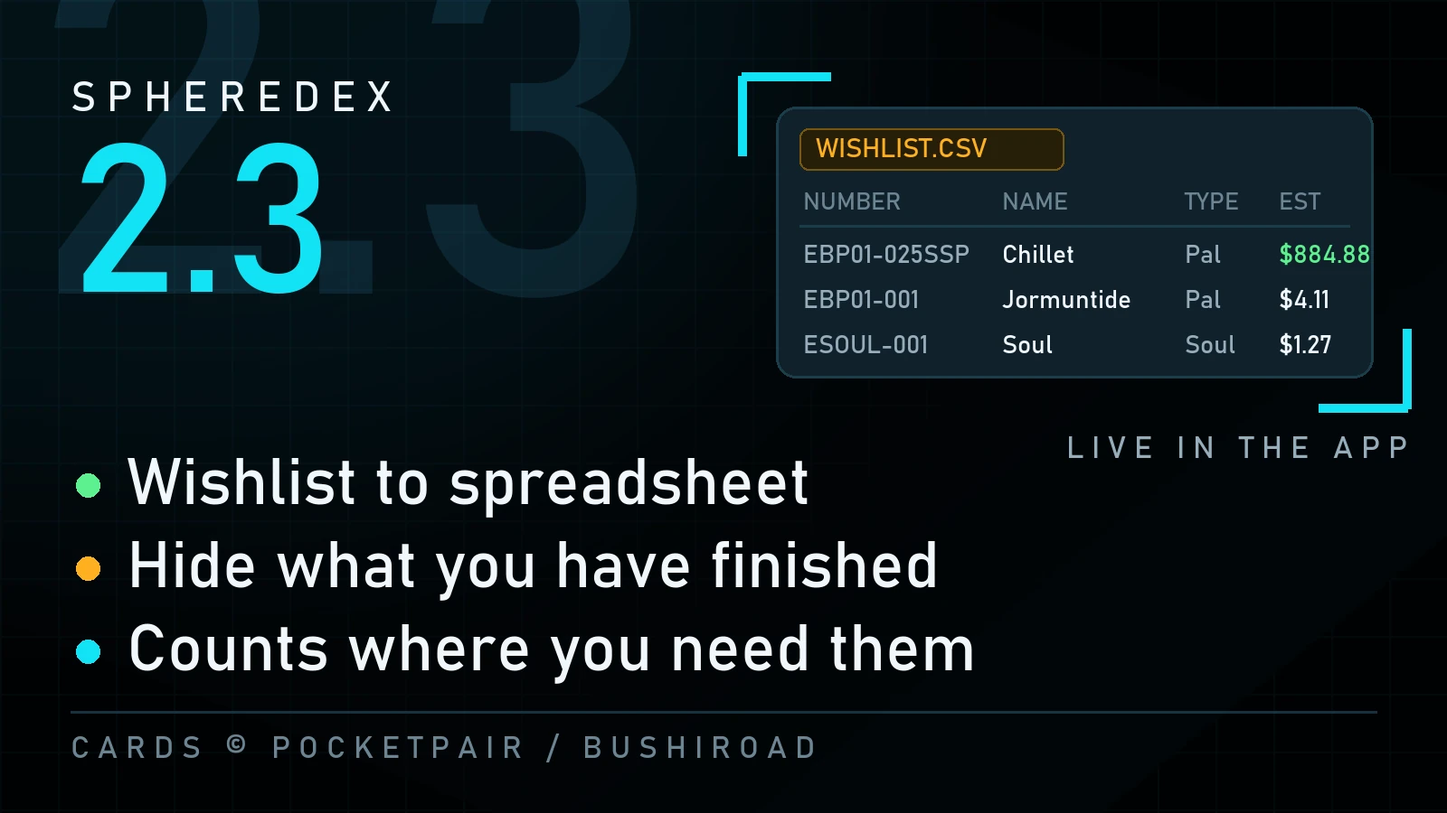
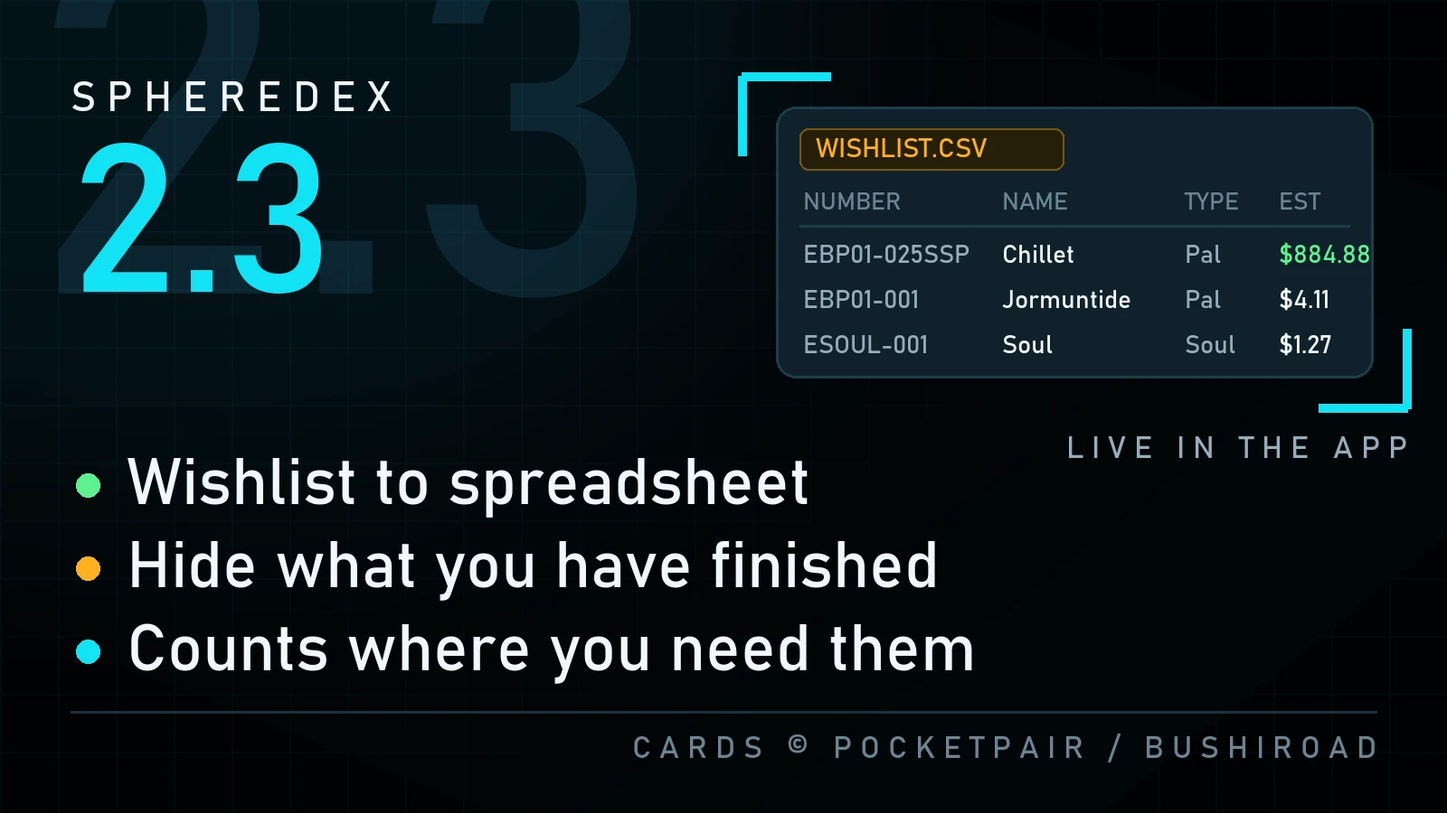
The update slide is the same size as every other carousel slide
Craig spotted the real problem: the carousel grew when you swiped onto the
update slide and shrank again when you swiped off it, because banneropen put
the whole carousel into height auto for that one slide. It was that tall
because it stacked the banner ABOVE a copy block repeating the same three
lines already drawn into the banner art.

The banner now simply fills the slide, like the artwork on every other slide,
inside the carousel's own height. Measured on a phone: all six slides report a
200px carousel, where the update one used to be far taller. Nothing is cropped,
contain not cover, because the art carries its labels at the edges.

The repeated copy block is not rendered at all now rather than hidden, so the
three lines are read once. The words that live only in the picture are given to
a screen reader through the banner's alt text instead.

The 2.3 art moves its Pocketpair and Bushiroad credit to the right, because the
carousel paints its dots over the bottom left of the frame.

Changed region(s): [[0.0312, 0.9022, 0.75, 0.9333], [0.7812, 0.9022, 0.9688, 0.9333]]

diff --git a/app/src/main/assets/spheredex.html b/app/src/main/assets/spheredex.html
@@ -917,42 +917,16 @@
     .featart { top:16px; bottom:16px; right:16px; max-width:340px; } .featslide.pair .featart { max-width:320px; }
     .featbody, .featslide.pair .featbody { right:372px; } .feattitle { font-size:1.2rem; } .featpoints span { white-space:normal; } }
   @media (prefers-reduced-motion:reduce) { .feattrack { transition:none; } .featslide.on .featart-img.zoom { animation:none; } }
-  /* Version banners are 16:9 collages carrying their own title and labels. ONE rendered size everywhere,
-     so the lettering drawn into the art is the same physical size on a phone and on a laptop. Only a phone
-     too narrow to hold the box shrinks it. Show the whole frame, sharp, and keep this slide's copy off the
-     phones. Other slide kinds stay as they are. */
-  :root { --banner-w:336px; }   /* the art is drawn for 336x189, i.e. 1600x900 at 0.21 */
-  .featslide.release { display:flex; flex-direction:column; align-self:flex-start; height:auto;
-    flex:0 0 100%; width:100%; max-width:100%; min-width:0; color:var(--ink); background:var(--surface); }
-  .featslide.release .featbg { position:relative; inset:auto; flex:none; width:min(100%, var(--banner-w)); max-width:100%; min-width:0;
-    margin-inline:auto; aspect-ratio:16 / 9; height:auto; background:#0b1c27; }
-  .featslide.release .featbg img { inset:0; width:100%; height:100%; object-fit:contain; object-position:center center;
-    filter:none; }
-  .featslide.release .featbg::after { content:none; }
-  .featslide.release .featart { display:none; }
-  .featslide.release .featbody { position:relative; inset:auto; right:auto; width:100%; flex:none;
-    padding:10px 14px 14px; color:var(--ink); background:var(--surface); border-top:1px solid var(--line); }
-  .featslide.release .featbadge { color:var(--accent-ink);
-    background:color-mix(in srgb, var(--accent) 16%, transparent);
-    border-color:color-mix(in srgb, var(--accent) 40%, var(--line)); }
-  .featslide.release .feattitle { color:var(--ink); }
-  .featslide.release .featpoints, .featslide.release .featmeta { color:var(--ink-soft); }
-  .featured.banneropen { height:auto; }
-  .featured.banneropen .feattrack { height:auto; align-items:flex-start; }
-  .featured.banneropen .featslide { height:200px; }
-  .featured.banneropen .featslide.release { height:auto; }
-  @media (min-width:760px) {
-    .featured.banneropen { height:240px; }
-    .featured.banneropen .feattrack { height:100%; align-items:stretch; }
-    .featured.banneropen .featslide { height:100%; }
-    .featured.banneropen .featslide.release { height:100%; align-self:stretch; }
-    .featslide.release .featbg { position:absolute; inset:50% 16px auto auto; transform:translateY(-50%);
-      width:var(--banner-w); height:auto; aspect-ratio:16 / 9; margin-inline:0; }
-    .featslide.release .featbg img { object-position:center center; }
-    .featslide.release .featbody { position:absolute; left:0; top:0; bottom:0; width:calc(100% - var(--banner-w) - 36px); right:auto;
-      padding:18px 16px 18px 22px; border-top:0;
-      background:linear-gradient(90deg, var(--surface) 0%, var(--surface) 88%, transparent 100%); }
-  }
+  /* Version banners are 16:9 collages that already carry their own title, their three lines and the credit.
+     So the slide shows the banner and nothing else, inside the carousel's ordinary height, exactly like the
+     artwork on every other slide. The carousel is therefore ONE size whatever you swipe to, and the banner is
+     the same size on a phone and on a laptop. contain, never cover: the art has its labels at the edges and
+     must never be cropped. */
+  .featslide.release .featbg { background:#08151f; }
+  .featslide.release .featbg img { inset:0; width:100%; height:100%; object-fit:contain;
+    object-position:center center; filter:none; }
+  .featslide.release .featbg::after { content:none; }   /* no scrim: nothing is written over the art */
+  .featslide.release .featart, .featslide.release .featbody { display:none; }
   /* Card of the day: the biggest riser in the whole catalogue. Built to read as an in game HUD
      readout, so the gain IS the graphic rather than another line of prose: reward gold on the chip and
      the card rim, price up green for the figure, the aura and the spark. The whole slide is one tap
@@ -9361,11 +9335,12 @@ label.acctsetrow { align-items:center; }
     return out.slice(0,6);   // six headliner kinds since the card of the day; five silently dropped Next release
   }
 
+  // The update slide used to grow the carousel while it was the active one. It no longer does: every slide
+  // is the same height, so there is nothing to sync. Kept as a no op, and it still clears the old class from
+  // a page that was rendered before this build.
   function featSyncBanner(){
     var host=$("homeFeatured"); if(!host || !host.classList) return;
-    var s=(_featSlides||[])[_featIndex];
-    if(s && s.releaseArt) host.classList.add("banneropen");
-    else host.classList.remove("banneropen");
+    host.classList.remove("banneropen");
   }
   function featPaint(){
     var host=$("homeFeatured"), track=$("featTrack"); if(!host||!track) return;
@@ -9488,7 +9463,10 @@ label.acctsetrow { align-items:center; }
           '</span></button>';
       }
       var movers=(s.kind==="movers" && s.movers && s.movers.length) ? s.movers : null;
-      var bg=s.art ? '<span class="featbg"><img src="'+esc(s.art)+'" alt="" loading="lazy" decoding="async"></span>' : '<span class="featbg featnoimg"></span>';
+      // The release banner is the only slide whose words live in the image, so it is the only one that
+      // needs real alt text. Every other slide repeats its art in the copy beside it.
+      var bgAlt=(s.releaseArt && s.notes && s.notes.length) ? (s.title+". "+s.notes.join(". ")) : "";
+      var bg=s.art ? '<span class="featbg"><img src="'+esc(s.art)+'" alt="'+esc(bgAlt)+'" loading="lazy" decoding="async"></span>' : '<span class="featbg featnoimg"></span>';
       var art="";
       if(movers){
         art='<span class="featart featart--card">'+movers.map(function(m){
@@ -9512,9 +9490,13 @@ label.acctsetrow { align-items:center; }
       } else {
         bodyMeta='<span class="featmeta">'+esc(s.meta)+'</span>';
       }
+      // A release slide is the banner and nothing else: its badge, title and three lines are already drawn
+      // into the art, so repeating them here would both say everything twice and make this slide taller
+      // than every other one. The alt text above carries the same words for a screen reader.
+      var body=s.releaseArt ? "" : ('<span class="featbody"><span class="featbadge">'+icon(badgeIcon)+esc(s.badge)+'</span>'+
+        '<span class="feattitle">'+esc(s.title)+'</span>'+bodyMeta+'</span>');
       return '<button class="featslide'+(on?" on":"")+(art?"":" noart")+(s.releaseArt?" release":"")+(movers&&movers.length>1?" pair":"")+'" type="button" data-i="'+i+'"'+(on?"":' tabindex="-1" aria-hidden="true"')+
-        '>'+bg+art+'<span class="featbody"><span class="featbadge">'+icon(badgeIcon)+esc(s.badge)+'</span>'+
-        '<span class="feattitle">'+esc(s.title)+'</span>'+bodyMeta+'</span></button>';
+        '>'+bg+art+body+'</button>';
     }).join("");
     var dots=slides.length>1 ? '<span class="featdots">'+slides.map(function(s,i){
         return '<button class="featdot" type="button" data-i="'+i+'" aria-current="'+(i===_featIndex)+'" aria-label="Show slide '+(i+1)+' of '+slides.length+'"></button>';

diff --git a/docs/app/index.html b/docs/app/index.html
@@ -917,42 +917,16 @@
     .featart { top:16px; bottom:16px; right:16px; max-width:340px; } .featslide.pair .featart { max-width:320px; }
     .featbody, .featslide.pair .featbody { right:372px; } .feattitle { font-size:1.2rem; } .featpoints span { white-space:normal; } }
   @media (prefers-reduced-motion:reduce) { .feattrack { transition:none; } .featslide.on .featart-img.zoom { animation:none; } }
-  /* Version banners are 16:9 collages carrying their own title and labels. ONE rendered size everywhere,
-     so the lettering drawn into the art is the same physical size on a phone and on a laptop. Only a phone
-     too narrow to hold the box shrinks it. Show the whole frame, sharp, and keep this slide's copy off the
-     phones. Other slide kinds stay as they are. */
-  :root { --banner-w:336px; }   /* the art is drawn for 336x189, i.e. 1600x900 at 0.21 */
-  .featslide.release { display:flex; flex-direction:column; align-self:flex-start; height:auto;
-    flex:0 0 100%; width:100%; max-width:100%; min-width:0; color:var(--ink); background:var(--surface); }
-  .featslide.release .featbg { position:relative; inset:auto; flex:none; width:min(100%, var(--banner-w)); max-width:100%; min-width:0;
-    margin-inline:auto; aspect-ratio:16 / 9; height:auto; background:#0b1c27; }
-  .featslide.release .featbg img { inset:0; width:100%; height:100%; object-fit:contain; object-position:center center;
-    filter:none; }
-  .featslide.release .featbg::after { content:none; }
-  .featslide.release .featart { display:none; }
-  .featslide.release .featbody { position:relative; inset:auto; right:auto; width:100%; flex:none;
-    padding:10px 14px 14px; color:var(--ink); background:var(--surface); border-top:1px solid var(--line); }
-  .featslide.release .featbadge { color:var(--accent-ink);
-    background:color-mix(in srgb, var(--accent) 16%, transparent);
-    border-color:color-mix(in srgb, var(--accent) 40%, var(--line)); }
-  .featslide.release .feattitle { color:var(--ink); }
-  .featslide.release .featpoints, .featslide.release .featmeta { color:var(--ink-soft); }
-  .featured.banneropen { height:auto; }
-  .featured.banneropen .feattrack { height:auto; align-items:flex-start; }
-  .featured.banneropen .featslide { height:200px; }
-  .featured.banneropen .featslide.release { height:auto; }
-  @media (min-width:760px) {
-    .featured.banneropen { height:240px; }
-    .featured.banneropen .feattrack { height:100%; align-items:stretch; }
-    .featured.banneropen .featslide { height:100%; }
-    .featured.banneropen .featslide.release { height:100%; align-self:stretch; }
-    .featslide.release .featbg { position:absolute; inset:50% 16px auto auto; transform:translateY(-50%);
-      width:var(--banner-w); height:auto; aspect-ratio:16 / 9; margin-inline:0; }
-    .featslide.release .featbg img { object-position:center center; }
-    .featslide.release .featbody { position:absolute; left:0; top:0; bottom:0; width:calc(100% - var(--banner-w) - 36px); right:auto;
-      padding:18px 16px 18px 22px; border-top:0;
-      background:linear-gradient(90deg, var(--surface) 0%, var(--surface) 88%, transparent 100%); }
-  }
+  /* Version banners are 16:9 collages that already carry their own title, their three lines and the credit.
+     So the slide shows the banner and nothing else, inside the carousel's ordinary height, exactly like the
+     artwork on every other slide. The carousel is therefore ONE size whatever you swipe to, and the banner is
+     the same size on a phone and on a laptop. contain, never cover: the art has its labels at the edges and
+     must never be cropped. */
+  .featslide.release .featbg { background:#08151f; }
+  .featslide.release .featbg img { inset:0; width:100%; height:100%; object-fit:contain;
+    object-position:center center; filter:none; }
+  .featslide.release .featbg::after { content:none; }   /* no scrim: nothing is written over the art */
+  .featslide.release .featart, .featslide.release .featbody { display:none; }
   /* Card of the day: the biggest riser in the whole catalogue. Built to read as an in game HUD
      readout, so the gain IS the graphic rather than another line of prose: reward gold on the chip and
      the card rim, price up green for the figure, the aura and the spark. The whole slide is one tap
@@ -9361,11 +9335,12 @@ label.acctsetrow { align-items:center; }
     return out.slice(0,6);   // six headliner kinds since the card of the day; five silently dropped Next release
   }
 
+  // The update slide used to grow the carousel while it was the active one. It no longer does: every slide
+  // is the same height, so there is nothing to sync. Kept as a no op, and it still clears the old class from
+  // a page that was rendered before this build.
   function featSyncBanner(){
     var host=$("homeFeatured"); if(!host || !host.classList) return;
-    var s=(_featSlides||[])[_featIndex];
-    if(s && s.releaseArt) host.classList.add("banneropen");
-    else host.classList.remove("banneropen");
+    host.classList.remove("banneropen");
   }
   function featPaint(){
     var host=$("homeFeatured"), track=$("featTrack"); if(!host||!track) return;
@@ -9488,7 +9463,10 @@ label.acctsetrow { align-items:center; }
           '</span></button>';
       }
       var movers=(s.kind==="movers" && s.movers && s.movers.length) ? s.movers : null;
-      var bg=s.art ? '<span class="featbg"><img src="'+esc(s.art)+'" alt="" loading="lazy" decoding="async"></span>' : '<span class="featbg featnoimg"></span>';
+      // The release banner is the only slide whose words live in the image, so it is the only one that
+      // needs real alt text. Every other slide repeats its art in the copy beside it.
+      var bgAlt=(s.releaseArt && s.notes && s.notes.length) ? (s.title+". "+s.notes.join(". ")) : "";
+      var bg=s.art ? '<span class="featbg"><img src="'+esc(s.art)+'" alt="'+esc(bgAlt)+'" loading="lazy" decoding="async"></span>' : '<span class="featbg featnoimg"></span>';
       var art="";
       if(movers){
         art='<span class="featart featart--card">'+movers.map(function(m){
@@ -9512,9 +9490,13 @@ label.acctsetrow { align-items:center; }
       } else {
         bodyMeta='<span class="featmeta">'+esc(s.meta)+'</span>';
       }
+      // A release slide is the banner and nothing else: its badge, title and three lines are already drawn
+      // into the art, so repeating them here would both say everything twice and make this slide taller
+      // than every other one. The alt text above carries the same words for a screen reader.
+      var body=s.releaseArt ? "" : ('<span class="featbody"><span class="featbadge">'+icon(badgeIcon)+esc(s.badge)+'</span>'+
+        '<span class="feattitle">'+esc(s.title)+'</span>'+bodyMeta+'</span>');
       return '<button class="featslide'+(on?" on":"")+(art?"":" noart")+(s.releaseArt?" release":"")+(movers&&movers.length>1?" pair":"")+'" type="button" data-i="'+i+'"'+(on?"":' tabindex="-1" aria-hidden="true"')+
-        '>'+bg+art+'<span class="featbody"><span class="featbadge">'+icon(badgeIcon)+esc(s.badge)+'</span>'+
-        '<span class="feattitle">'+esc(s.title)+'</span>'+bodyMeta+'</span></button>';
+        '>'+bg+art+body+'</button>';
     }).join("");
     var dots=slides.length>1 ? '<span class="featdots">'+slides.map(function(s,i){
         return '<button class="featdot" type="button" data-i="'+i+'" aria-current="'+(i===_featIndex)+'" aria-label="Show slide '+(i+1)+' of '+slides.length+'"></button>';

diff --git a/ios/SphereDex/SphereDex/Resources/spheredex.html b/ios/SphereDex/SphereDex/Resources/spheredex.html
@@ -917,42 +917,16 @@
     .featart { top:16px; bottom:16px; right:16px; max-width:340px; } .featslide.pair .featart { max-width:320px; }
     .featbody, .featslide.pair .featbody { right:372px; } .feattitle { font-size:1.2rem; } .featpoints span { white-space:normal; } }
   @media (prefers-reduced-motion:reduce) { .feattrack { transition:none; } .featslide.on .featart-img.zoom { animation:none; } }
-  /* Version banners are 16:9 collages carrying their own title and labels. ONE rendered size everywhere,
-     so the lettering drawn into the art is the same physical size on a phone and on a laptop. Only a phone
-     too narrow to hold the box shrinks it. Show the whole frame, sharp, and keep this slide's copy off the
-     phones. Other slide kinds stay as they are. */
-  :root { --banner-w:336px; }   /* the art is drawn for 336x189, i.e. 1600x900 at 0.21 */
-  .featslide.release { display:flex; flex-direction:column; align-self:flex-start; height:auto;
-    flex:0 0 100%; width:100%; max-width:100%; min-width:0; color:var(--ink); background:var(--surface); }
-  .featslide.release .featbg { position:relative; inset:auto; flex:none; width:min(100%, var(--banner-w)); max-width:100%; min-width:0;
-    margin-inline:auto; aspect-ratio:16 / 9; height:auto; background:#0b1c27; }
-  .featslide.release .featbg img { inset:0; width:100%; height:100%; object-fit:contain; object-position:center center;
-    filter:none; }
-  .featslide.release .featbg::after { content:none; }
-  .featslide.release .featart { display:none; }
-  .featslide.release .featbody { position:relative; inset:auto; right:auto; width:100%; flex:none;
-    padding:10px 14px 14px; color:var(--ink); background:var(--surface); border-top:1px solid var(--line); }
-  .featslide.release .featbadge { color:var(--accent-ink);
-    background:color-mix(in srgb, var(--accent) 16%, transparent);
-    border-color:color-mix(in srgb, var(--accent) 40%, var(--line)); }
-  .featslide.release .feattitle { color:var(--ink); }
-  .featslide.release .featpoints, .featslide.release .featmeta { color:var(--ink-soft); }
-  .featured.banneropen { height:auto; }
-  .featured.banneropen .feattrack { height:auto; align-items:flex-start; }
-  .featured.banneropen .featslide { height:200px; }
-  .featured.banneropen .featslide.release { height:auto; }
-  @media (min-width:760px) {
-    .featured.banneropen { height:240px; }
-    .featured.banneropen .feattrack { height:100%; align-items:stretch; }
-    .featured.banneropen .featslide { height:100%; }
-    .featured.banneropen .featslide.release { height:100%; align-self:stretch; }
-    .featslide.release .featbg { position:absolute; inset:50% 16px auto auto; transform:translateY(-50%);
-      width:var(--banner-w); height:auto; aspect-ratio:16 / 9; margin-inline:0; }
-    .featslide.release .featbg img { object-position:center center; }
-    .featslide.release .featbody { position:absolute; left:0; top:0; bottom:0; width:calc(100% - var(--banner-w) - 36px); right:auto;
-      padding:18px 16px 18px 22px; border-top:0;
-      background:linear-gradient(90deg, var(--surface) 0%, var(--surface) 88%, transparent 100%); }
-  }
+  /* Version banners are 16:9 collages that already carry their own title, their three lines and the credit.
+     So the slide shows the banner and nothing else, inside the carousel's ordinary height, exactly like the
+     artwork on every other slide. The carousel is therefore ONE size whatever you swipe to, and the banner is
+     the same size on a phone and on a laptop. contain, never cover: the art has its labels at the edges and
+     must never be cropped. */
+  .featslide.release .featbg { background:#08151f; }
+  .featslide.release .featbg img { inset:0; width:100%; height:100%; object-fit:contain;
+    object-position:center center; filter:none; }
+  .featslide.release .featbg::after { content:none; }   /* no scrim: nothing is written over the art */
+  .featslide.release .featart, .featslide.release .featbody { display:none; }
   /* Card of the day: the biggest riser in the whole catalogue. Built to read as an in game HUD
      readout, so the gain IS the graphic rather than another line of prose: reward gold on the chip and
      the card rim, price up green for the figure, the aura and the spark. The whole slide is one tap
@@ -9361,11 +9335,12 @@ label.acctsetrow { align-items:center; }
     return out.slice(0,6);   // six headliner kinds since the card of the day; five silently dropped Next release
   }
 
+  // The update slide used to grow the carousel while it was the active one. It no longer does: every slide
+  // is the same height, so there is nothing to sync. Kept as a no op, and it still clears the old class from
+  // a page that was rendered before this build.
   function featSyncBanner(){
     var host=$("homeFeatured"); if(!host || !host.classList) return;
-    var s=(_featSlides||[])[_featIndex];
-    if(s && s.releaseArt) host.classList.add("banneropen");
-    else host.classList.remove("banneropen");
+    host.classList.remove("banneropen");
   }
   function featPaint(){
     var host=$("homeFeatured"), track=$("featTrack"); if(!host||!track) return;
@@ -9488,7 +9463,10 @@ label.acctsetrow { align-items:center; }
           '</span></button>';
       }
       var movers=(s.kind==="movers" && s.movers && s.movers.length) ? s.movers : null;
-      var bg=s.art ? '<span class="featbg"><img src="'+esc(s.art)+'" alt="" loading="lazy" decoding="async"></span>' : '<span class="featbg featnoimg"></span>';
+      // The release banner is the only slide whose words live in the image, so it is the only one that
+      // needs real alt text. Every other slide repeats its art in the copy beside it.
+      var bgAlt=(s.releaseArt && s.notes && s.notes.length) ? (s.title+". "+s.notes.join(". ")) : "";
+      var bg=s.art ? '<span class="featbg"><img src="'+esc(s.art)+'" alt="'+esc(bgAlt)+'" loading="lazy" decoding="async"></span>' : '<span class="featbg featnoimg"></span>';
       var art="";
       if(movers){
         art='<span class="featart featart--card">'+movers.map(function(m){
@@ -9512,9 +9490,13 @@ label.acctsetrow { align-items:center; }
       } else {
         bodyMeta='<span class="featmeta">'+esc(s.meta)+'</span>';
       }
+      // A release slide is the banner and nothing else: its badge, title and three lines are already drawn
+      // into the art, so repeating them here would both say everything twice and make this slide taller
+      // than every other one. The alt text above carries the same words for a screen reader.
+      var body=s.releaseArt ? "" : ('<span class="featbody"><span class="featbadge">'+icon(badgeIcon)+esc(s.badge)+'</span>'+
+        '<span class="feattitle">'+esc(s.title)+'</span>'+bodyMeta+'</span>');
       return '<button class="featslide'+(on?" on":"")+(art?"":" noart")+(s.releaseArt?" release":"")+(movers&&movers.length>1?" pair":"")+'" type="button" data-i="'+i+'"'+(on?"":' tabindex="-1" aria-hidden="true"')+
-        '>'+bg+art+'<span class="featbody"><span class="featbadge">'+icon(badgeIcon)+esc(s.badge)+'</span>'+
-        '<span class="feattitle">'+esc(s.title)+'</span>'+bodyMeta+'</span></button>';
+        '>'+bg+art+body+'</button>';
     }).join("");
     var dots=slides.length>1 ? '<span class="featdots">'+slides.map(function(s,i){
         return '<button class="featdot" type="button" data-i="'+i+'" aria-current="'+(i===_featIndex)+'" aria-label="Show slide '+(i+1)+' of '+slides.length+'"></button>';

diff --git a/src/paldeck.html b/src/paldeck.html
@@ -917,42 +917,16 @@
     .featart { top:16px; bottom:16px; right:16px; max-width:340px; } .featslide.pair .featart { max-width:320px; }
     .featbody, .featslide.pair .featbody { right:372px; } .feattitle { font-size:1.2rem; } .featpoints span { white-space:normal; } }
   @media (prefers-reduced-motion:reduce) { .feattrack { transition:none; } .featslide.on .featart-img.zoom { animation:none; } }
-  /* Version banners are 16:9 collages carrying their own title and labels. ONE rendered size everywhere,
-     so the lettering drawn into the art is the same physical size on a phone and on a laptop. Only a phone
-     too narrow to hold the box shrinks it. Show the whole frame, sharp, and keep this slide's copy off the
-     phones. Other slide kinds stay as they are. */
-  :root { --banner-w:336px; }   /* the art is drawn for 336x189, i.e. 1600x900 at 0.21 */
-  .featslide.release { display:flex; flex-direction:column; align-self:flex-start; height:auto;
-    flex:0 0 100%; width:100%; max-width:100%; min-width:0; color:var(--ink); background:var(--surface); }
-  .featslide.release .featbg { position:relative; inset:auto; flex:none; width:min(100%, var(--banner-w)); max-width:100%; min-width:0;
-    margin-inline:auto; aspect-ratio:16 / 9; height:auto; background:#0b1c27; }
-  .featslide.release .featbg img { inset:0; width:100%; height:100%; object-fit:contain; object-position:center center;
-    filter:none; }
-  .featslide.release .featbg::after { content:none; }
-  .featslide.release .featart { display:none; }
-  .featslide.release .featbody { position:relative; inset:auto; right:auto; width:100%; flex:none;
-    padding:10px 14px 14px; color:var(--ink); background:var(--surface); border-top:1px solid var(--line); }
-  .featslide.release .featbadge { color:var(--accent-ink);
-    background:color-mix(in srgb, var(--accent) 16%, transparent);
-    border-color:color-mix(in srgb, var(--accent) 40%, var(--line)); }
-  .featslide.release .feattitle { color:var(--ink); }
-  .featslide.release .featpoints, .featslide.release .featmeta { color:var(--ink-soft); }
-  .featured.banneropen { height:auto; }
-  .featured.banneropen .feattrack { height:auto; align-items:flex-start; }
-  .featured.banneropen .featslide { height:200px; }
-  .featured.banneropen .featslide.release { height:auto; }
-  @media (min-width:760px) {
-    .featured.banneropen { height:240px; }
-    .featured.banneropen .feattrack { height:100%; align-items:stretch; }
-    .featured.banneropen .featslide { height:100%; }
-    .featured.banneropen .featslide.release { height:100%; align-self:stretch; }
-    .featslide.release .featbg { position:absolute; inset:50% 16px auto auto; transform:translateY(-50%);
-      width:var(--banner-w); height:auto; aspect-ratio:16 / 9; margin-inline:0; }
-    .featslide.release .featbg img { object-position:center center; }
-    .featslide.release .featbody { position:absolute; left:0; top:0; bottom:0; width:calc(100% - var(--banner-w) - 36px); right:auto;
-      padding:18px 16px 18px 22px; border-top:0;
-      background:linear-gradient(90deg, var(--surface) 0%, var(--surface) 88%, transparent 100%); }
-  }
+  /* Version banners are 16:9 collages that already carry their own title, their three lines and the credit.
+     So the slide shows the banner and nothing else, inside the carousel's ordinary height, exactly like the
+     artwork on every other slide. The carousel is therefore ONE size whatever you swipe to, and the banner is
+     the same size on a phone and on a laptop. contain, never cover: the art has its labels at the edges and
+     must never be cropped. */
+  .featslide.release .featbg { background:#08151f; }
+  .featslide.release .featbg img { inset:0; width:100%; height:100%; object-fit:contain;
+    object-position:center center; filter:none; }
+  .featslide.release .featbg::after { content:none; }   /* no scrim: nothing is written over the art */
+  .featslide.release .featart, .featslide.release .featbody { display:none; }
   /* Card of the day: the biggest riser in the whole catalogue. Built to read as an in game HUD
      readout, so the gain IS the graphic rather than another line of prose: reward gold on the chip and
      the card rim, price up green for the figure, the aura and the spark. The whole slide is one tap
@@ -9361,11 +9335,12 @@ label.acctsetrow { align-items:center; }
     return out.slice(0,6);   // six headliner kinds since the card of the day; five silently dropped Next release
   }
 
+  // The update slide used to grow the carousel while it was the active one. It no longer does: every slide
+  // is the same height, so there is nothing to sync. Kept as a no op, and it still clears the old class from
+  // a page that was rendered before this build.
   function featSyncBanner(){
     var host=$("homeFeatured"); if(!host || !host.classList) return;
-    var s=(_featSlides||[])[_featIndex];
-    if(s && s.releaseArt) host.classList.add("banneropen");
-    else host.classList.remove("banneropen");
+    host.classList.remove("banneropen");
   }
   function featPaint(){
     var host=$("homeFeatured"), track=$("featTrack"); if(!host||!track) return;
@@ -9488,7 +9463,10 @@ label.acctsetrow { align-items:center; }
           '</span></button>';
       }
       var movers=(s.kind==="movers" && s.movers && s.movers.length) ? s.movers : null;
-      var bg=s.art ? '<span class="featbg"><img src="'+esc(s.art)+'" alt="" loading="lazy" decoding="async"></span>' : '<span class="featbg featnoimg"></span>';
+      // The release banner is the only slide whose words live in the image, so it is the only one that
+      // needs real alt text. Every other slide repeats its art in the copy beside it.
+      var bgAlt=(s.releaseArt && s.notes && s.notes.length) ? (s.title+". "+s.notes.join(". ")) : "";
+      var bg=s.art ? '<span class="featbg"><img src="'+esc(s.art)+'" alt="'+esc(bgAlt)+'" loading="lazy" decoding="async"></span>' : '<span class="featbg featnoimg"></span>';
       var art="";
       if(movers){
         art='<span class="featart featart--card">'+movers.map(function(m){
@@ -9512,9 +9490,13 @@ label.acctsetrow { align-items:center; }
       } else {
         bodyMeta='<span class="featmeta">'+esc(s.meta)+'</span>';
       }
+      // A release slide is the banner and nothing else: its badge, title and three lines are already drawn
+      // into the art, so repeating them here would both say everything twice and make this slide taller
+      // than every other one. The alt text above carries the same words for a screen reader.
+      var body=s.releaseArt ? "" : ('<span class="featbody"><span class="featbadge">'+icon(badgeIcon)+esc(s.badge)+'</span>'+
+        '<span class="feattitle">'+esc(s.title)+'</span>'+bodyMeta+'</span>');
       return '<button class="featslide'+(on?" on":"")+(art?"":" noart")+(s.releaseArt?" release":"")+(movers&&movers.length>1?" pair":"")+'" type="button" data-i="'+i+'"'+(on?"":' tabindex="-1" aria-hidden="true"')+
-        '>'+bg+art+'<span class="featbody"><span class="featbadge">'+icon(badgeIcon)+esc(s.badge)+'</span>'+
-        '<span class="feattitle">'+esc(s.title)+'</span>'+bodyMeta+'</span></button>';
+        '>'+bg+art+body+'</button>';
     }).join("");
     var dots=slides.length>1 ? '<span class="featdots">'+slides.map(function(s,i){
         return '<button class="featdot" type="button" data-i="'+i+'" aria-current="'+(i===_featIndex)+'" aria-label="Show slide '+(i+1)+' of '+slides.length+'"></button>';

diff --git a/docs/app/sw.js b/docs/app/sw.js
@@ -8,7 +8,7 @@
 //
 // tools/rebuild.py stamps BUILD with the app version and a hash of the built page, so this file never has
 // to be bumped by hand, which is what left it on one literal name for the app's whole life.
-const BUILD = '2.3-ad6a7087';
+const BUILD = '2.3-bde18eb9';
 const SHELL = 'spheredex-shell-' + BUILD;
 const ASSETS = 'spheredex-assets-v1';
 const SHELL_FILES = ['./', './index.html', './manifest.webmanifest'];
